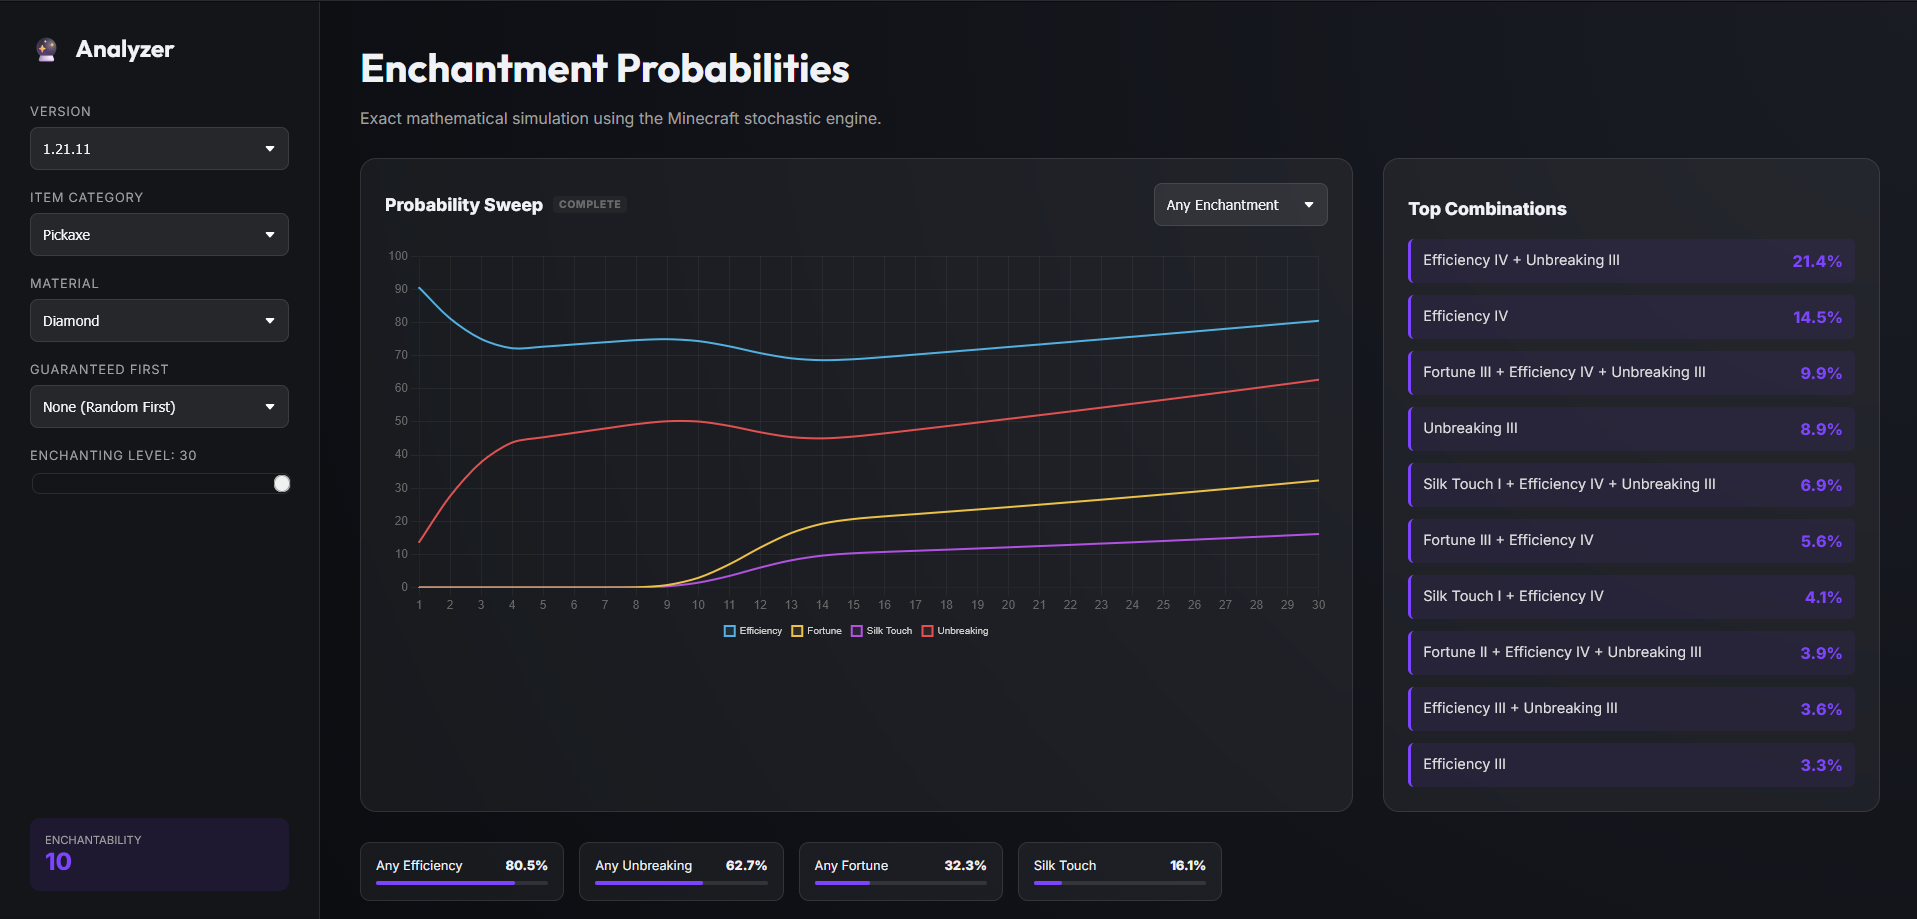
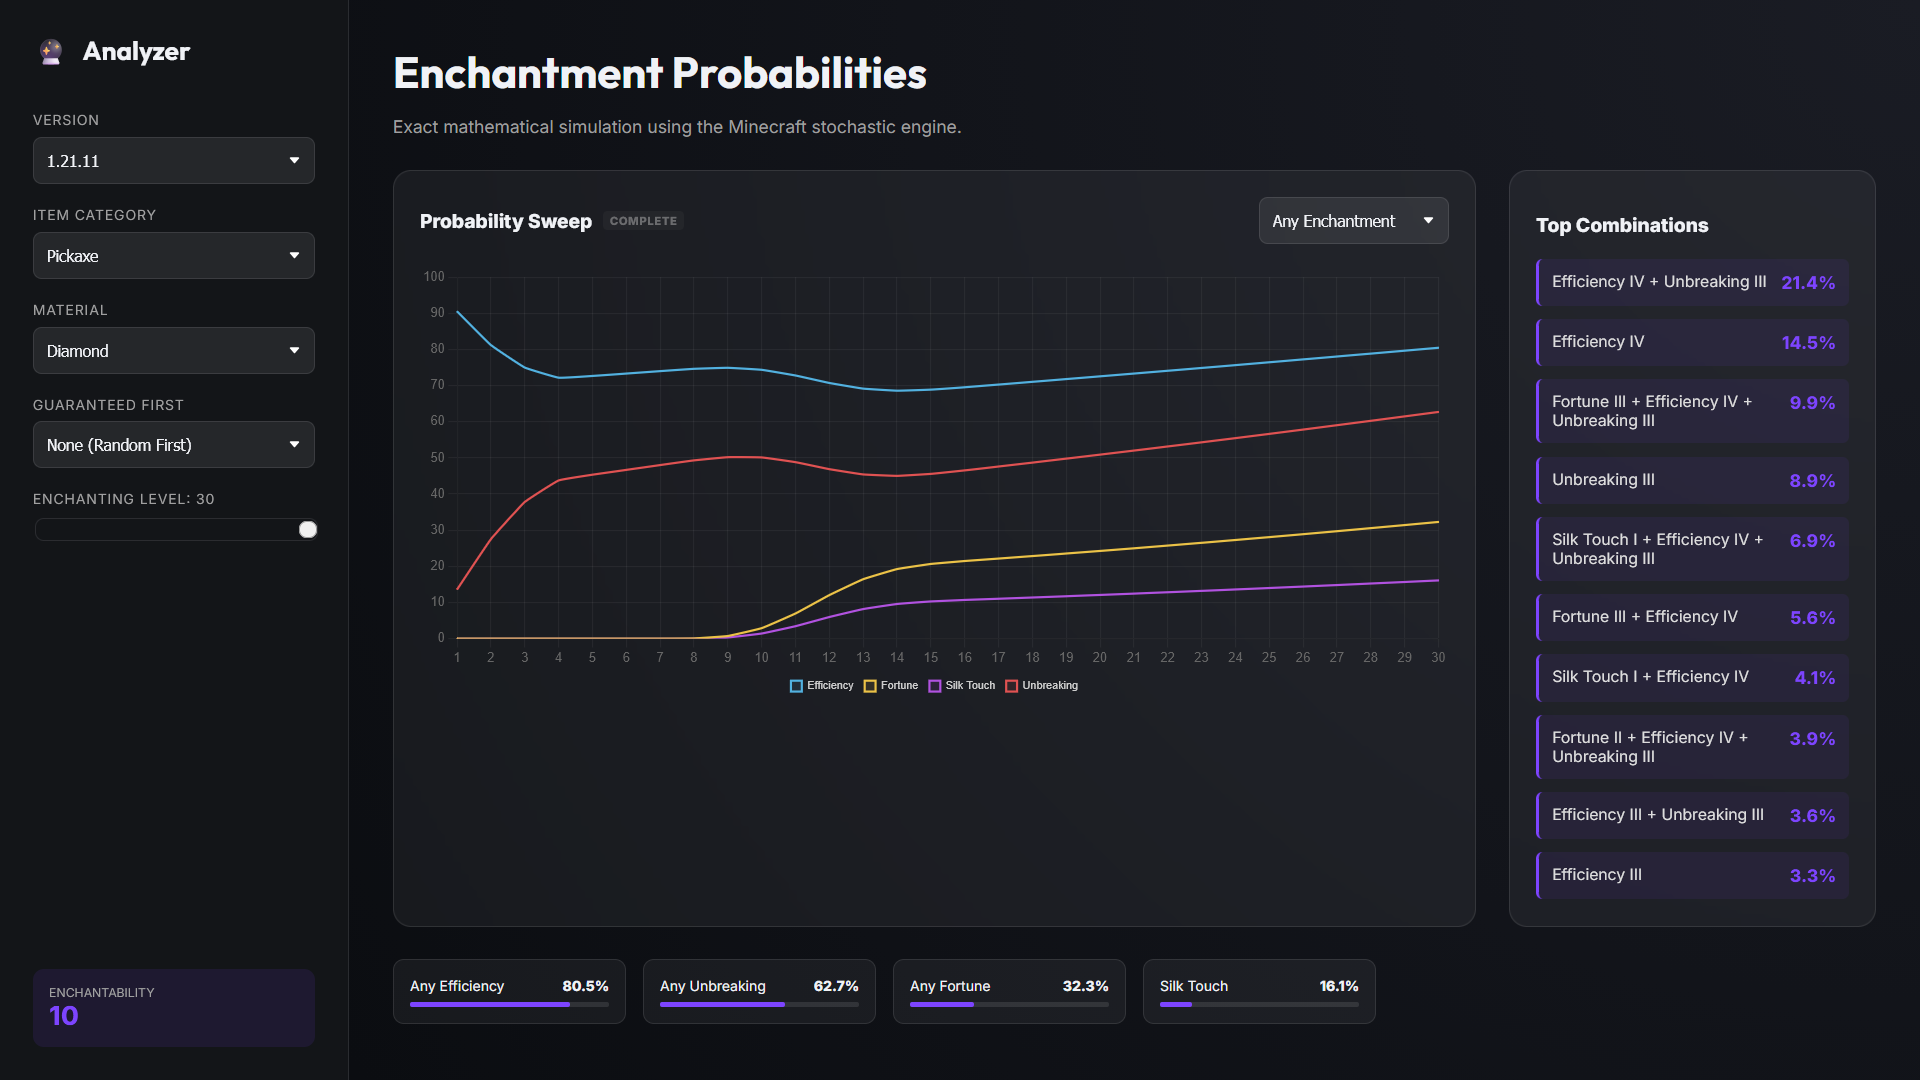
chore: prepare v2.0.0 release

diff --git a/CHANGELOG.md b/CHANGELOG.md
@@ -1,5 +1,14 @@
 # Changelog
 
+## v2.0.0 (2026-03-24)
+
+### The "Divide & Conquer" Update
+- **Complete Restructure**: The entire project has been internally reorganized to make future work easier.
+- **Improved Book Accuracy**: Improved the engine to provide more precise results for books rolling multiple enchants.
+- **Expanded Test Suite**: Added comprehensive unit and performance tests to ensure long-term stability.
+- **Prettified README**: Finally fixed the README screenshot link to point at the correct location and took a better one.
+- **Changed CHANGELOG**: All entries now use the `vX.X.X (YYYY-MM-DD)` format.
+
 ## v1.3.0 (2026-03-22)
 
 ### Improved Accuracy & Stability
@@ -8,23 +17,23 @@
 - **Reliable builds**: Improved internal build scripts and testing for a smoother developer experience.
 - **UI Stabilization**: Resolved an issue where results would flicker or disappear during long calculations.
 
-## [1.2.0] - 2026-03-22
+## v1.2.0 (2026-03-22)
 
 ### Added
 - **Greater Accuracy**: New probability tracking for partial search results.
 - **Deeper Analysis**: Support for up to 6 concurrent enchantments on a single item.
 
-## [1.1.2] - 2026-03-21
+## v1.1.2 (2026-03-21)
 
 ### Changed
 - **Build Hygiene**: Added a `clean` script to safely remove the `dist` directory and updated the test workflow to ensure a clean state before building and testing.
 
-## [1.1.1] - 2026-03-21
+## v1.1.1 (2026-03-21)
 
 ### Fixed
 - **Visual Chart Glitch**: Resolved an issue where chart lines would momentarily dip to zero during high-accuracy progressive refinement.
 
-## [1.1.0] - 2026-03-21
+## v1.1.0 (2026-03-21)
 
 ### Added
 - **Modularized Utility Library**: Refactored the monolithic `utils.ts` into specialized modules (`math`, `domain`, `ui`, `collections`, `results`) for better maintainability.

diff --git a/README.md b/README.md
@@ -2,7 +2,7 @@
 
 A high-performance, real-time simulation tool for Minecraft's enchanting mechanics. This analyzer provides instant, mathematically precise probabilities for any item, material, and version combination.
 
-![Analyzer Screenshot](file:///d:/Projects/mc-enchanting-analyzer/media/Screenshot.png)
+![Analyzer Screenshot](media/Screenshot.png)
 
 ## ✨ Why use this Analyzer?
 
@@ -35,4 +35,4 @@ To build your own standalone version, use: `npm run build:standalone`. The resul
 This tool uses a specialized "Progressive Refinement" search. It prioritizes the most statistically significant paths first, allowing the UI to remain incredibly responsive even when calculating deep probability trees for high-level enchantments.
 
 ---
-Created by **Jonathan Braver** | **Version 1.3.0**
+Created by **Jonathan Braver** | **Version 2.0.0**
